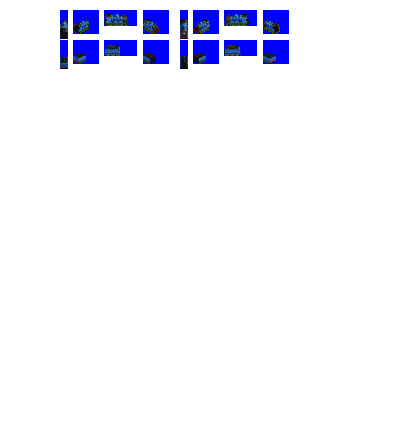
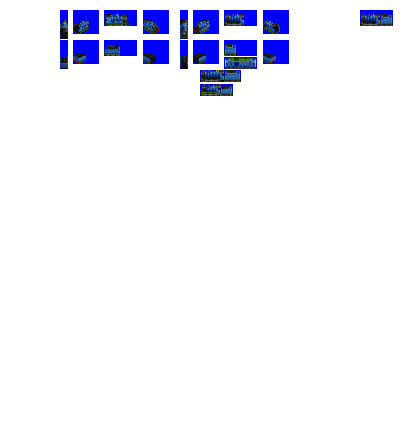
Change: WIP on steam engine sprites

Changed region(s): [[0.48, 0.0886, 0.66, 0.2364], [0.9, 0.0, 0.99, 0.0591], [0.54, 0.0295, 0.63, 0.0591]]

diff --git a/src/vehicles/collett.py b/src/vehicles/collett.py
@@ -1,4 +1,4 @@
-from train import EngineConsist, SteamEngineUnit
+from train import EngineConsist, SteamEngineUnit, SteamEngineTenderUnit
 
 # basically a Q1, which is why it's 0-6-0 even though it replaces a 2-6-0
 
@@ -10,6 +10,11 @@ consist = EngineConsist(id='collett',
                         gen=3)
 
 consist.add_unit(type=SteamEngineUnit,
-                 weight=80,
-                 vehicle_length=8,
+                 weight=70,
+                 vehicle_length=5,
                  spriterow_num=0)
+
+consist.add_unit(type=SteamEngineTenderUnit,
+                 weight=30,
+                 vehicle_length=3,
+                 spriterow_num=1)
